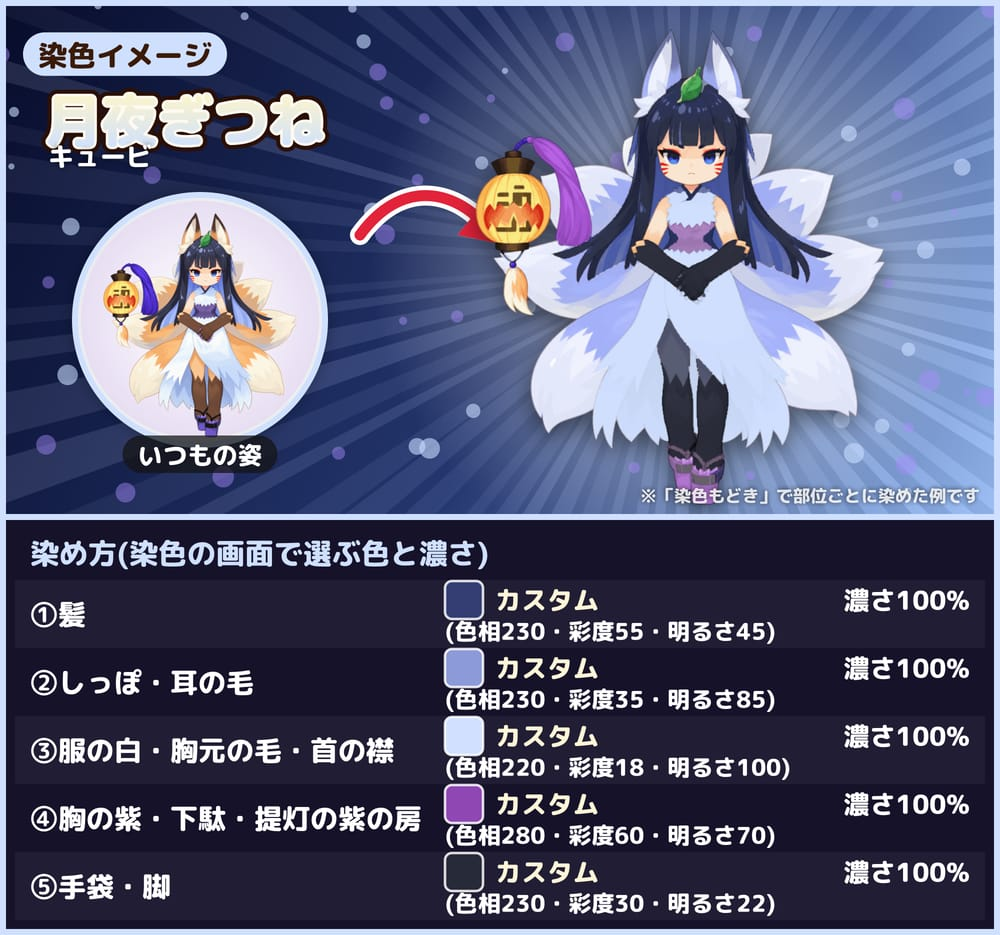
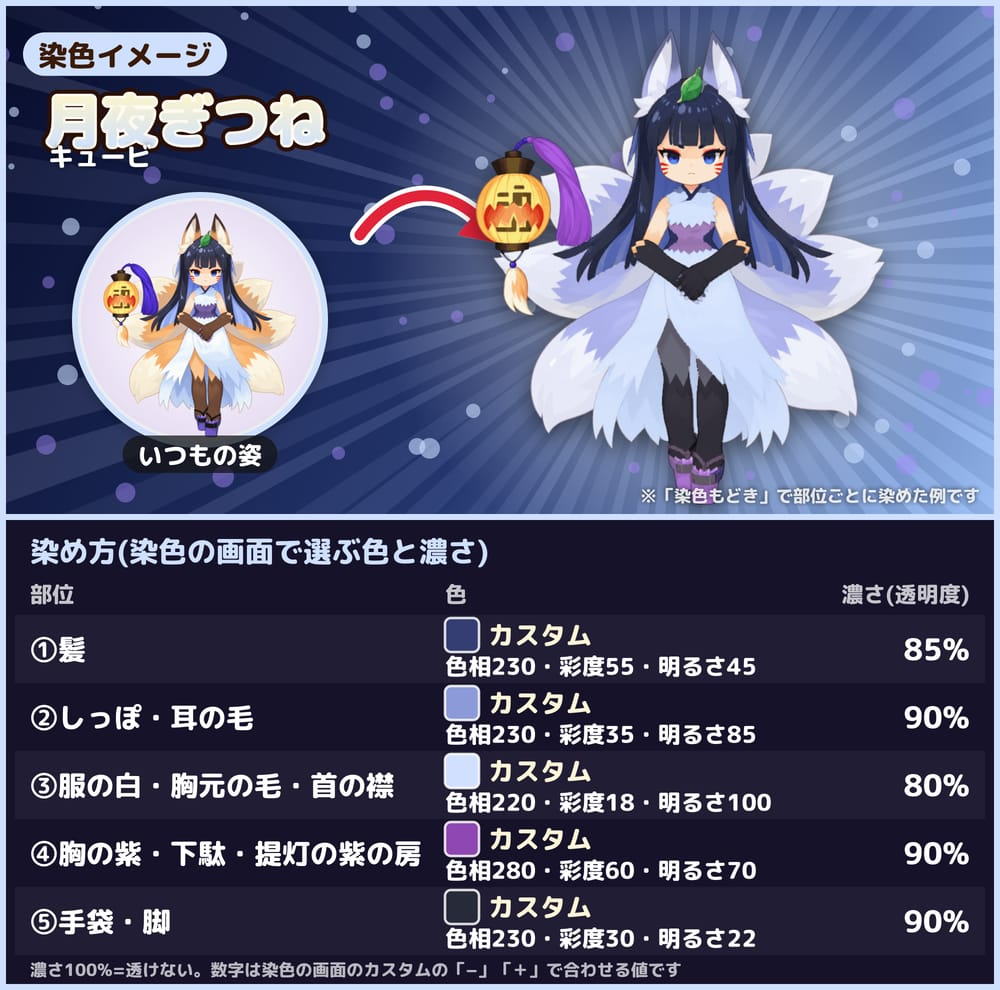
キュービ・オリヒメの染色イメージ: 表を2体同じ3列(部位・色・濃さ(透明度))にし、濃さを部位ごとに仕上げて描き直す
Claude-Session: https://claude.ai/code/session_01UuhN9L3PoQXeR6w3rggzQq

diff --git a/tools/image/make-kyubi-orihime-dye-preview.js b/tools/image/make-kyubi-orihime-dye-preview.js
@@ -31,7 +31,7 @@ const DYE_CANDIDATES = {
   Kyubi: {
     A: { style: '白ぎつね', colors: [c(250,18,100), c(250,15,100), c(210,6,100), c(355,85,85), c(0,0,100)], bg: ['#1b1638', '#5a5aa8', '#e4e2ff'], accent: '#f1edff', dots: ['rgba(240,235,255,.6)', 'rgba(255,170,170,.45)'] },
     B: { style: '紅葉ぎつね', colors: [c(15,60,40), c(25,85,95), c(40,15,100), c(45,85,95), c(15,60,35)], bg: ['#2a0e05', '#a0401a', '#ffc27a'], accent: '#ffd9a0', dots: ['rgba(255,200,120,.6)', 'rgba(255,140,90,.5)'] },
-    C: { style: '月夜ぎつね', colors: [c(230,55,45), c(230,35,85), c(220,18,100), c(280,60,70), c(230,30,22)], bg: ['#070c2a', '#24366e', '#8fb2e8'], accent: '#cfe0ff', dots: ['rgba(200,220,255,.6)', 'rgba(170,140,255,.45)'] },
+    C: { style: '月夜ぎつね', colors: [c(230,55,45,85), c(230,35,85,90), c(220,18,100,80), c(280,60,70,90), c(230,30,22,90)], bg: ['#070c2a', '#24366e', '#8fb2e8'], accent: '#cfe0ff', dots: ['rgba(200,220,255,.6)', 'rgba(170,140,255,.45)'] },
     D: { style: '桜ぎつね', colors: [c(340,35,95), c(340,30,100), c(350,8,100), c(330,70,90), c(340,18,100)], bg: ['#2a0b1f', '#a04a78', '#ffd0e4'], accent: '#ffd8ea', dots: ['rgba(255,200,225,.6)', 'rgba(255,255,255,.45)'] },
     // C を色の札と濃さだけで作り直した物(遊ぶ人が染色の画面でそのまま選べる形。2026-10-27)
     C2: { style: '月夜ぎつね', colors: ['blue@55', 'blue_light@80', 'blue_light@45', 'purple', 'black'], bg: ['#070c2a', '#24366e', '#8fb2e8'], accent: '#cfe0ff', dots: ['rgba(200,220,255,.6)', 'rgba(170,140,255,.45)'] },
@@ -46,7 +46,7 @@ const DYE_CANDIDATES = {
     // 2026-10-27 社長「A〜E のどれでもない」→ A〜E と似た色(水色・茶・緑・白紺・えんじ)を外して作り直した5案。
     // 遊ぶ人が染色の画面でそのまま選べるよう、カスタムではなく色の札と濃さだけで染める
     F: { style: '星空', colors: ['yellow_light', 'purple_light', 'yellow', 'purple', 'purple'], bg: ['#0c0620', '#3a1f6e', '#f3d27a'], accent: '#ffe9a8', dots: ['rgba(255,230,150,.7)', 'rgba(200,170,255,.5)'] },
-    G: { style: '桜', colors: ['pink', 'pink_light', 'red_light', 'white', 'pink_light'], bg: ['#3a1024', '#c25a86', '#ffe4ee'], accent: '#ffe0ec', dots: ['rgba(255,210,230,.7)', 'rgba(255,255,255,.5)'] },
+    G: { style: '桜', colors: ['pink@85', 'pink_light@90', 'red_light@85', 'white', 'pink_light@90'], bg: ['#3a1024', '#c25a86', '#ffe4ee'], accent: '#ffe0ec', dots: ['rgba(255,210,230,.7)', 'rgba(255,255,255,.5)'] },
     H: { style: '黒と朱', colors: ['black', 'gray', 'black', 'red', 'black'], bg: ['#080808', '#3a0c08', '#e0452a'], accent: '#ffb39a', dots: ['rgba(255,120,80,.55)', 'rgba(255,255,255,.3)'] },
     I: { style: '月光', colors: ['gray', 'blue_light', 'white', 'blue', 'blue'], bg: ['#05081e', '#1e2a6a', '#d8e0f0'], accent: '#e4ecff', dots: ['rgba(230,240,255,.65)', 'rgba(160,180,255,.45)'] },
     J: { style: '朝顔', colors: ['purple', 'pink_light', 'pink', 'blue', 'magenta'], bg: ['#120a3a', '#5a3aa8', '#ffc4e6'], accent: '#ffd6f0', dots: ['rgba(255,190,230,.6)', 'rgba(180,160,255,.5)'] },
@@ -63,39 +63,52 @@ const REGION_NAMES = {
 // 染色イメージの下に「どの色の札・どの濃さで染めたか」の表を描く(2026-10-27 社長「どの色と透明度とかわかるようにして」)。
 // 値は手で書かず、染めるのに使った colors から出す。色の札の名前と見本の色はゲームの MASU_COLOR_LABELS・MASU_COLOR_SWATCH を
 // そのまま読むので、染色の画面の呼び方と同じになる。スマホの更新履歴(幅340pxほど)でも読めるよう、字は大きめにする
-const TABLE_HEAD = 120;
-// カスタムの色がある表は2段組み(上に「カスタム」と濃さ、下に数字)にするので、行を高くする
-const tableRowOf = (colors) => (colors || []).some((cid) => typeof cid === 'string' && cid.startsWith('custom:')) ? 136 : 112;
+const TABLE_HEAD = 190, TABLE_ROW = 136, TABLE_FOOT = 70;
 const hsvHex = (h, s, v) => { const f = (n) => { const k = (n + h / 60) % 6; return Math.round(255 * v * (1 - s * Math.max(0, Math.min(k, 4 - k, 1)))); }; return '#' + [f(5), f(3), f(1)].map((n) => n.toString(16).padStart(2, '0')).join(''); };
+// 色1つぶんの表の中身。2体とも同じ形にする(2026-10-27 社長「透明度どっち？ %が2つあるし。オリヒメにはないし」)。
+//   色の列: 色の名前(カスタムなら「カスタム」)と、染色の画面のカスタムの色選びで「−」「＋」で合わせる数字(色相・彩度・明るさ。%は付けない)
+//   濃さの列: 濃さ(透明度)だけ%を付ける。100%=透けない
+// 名前の付いた色の数字は、カスタムで入れるとほぼ同じ色になる値にする。ゲームはカスタムの明るさ v を
+// 下へ0.32・上へ0.24の幅にして染める(_resolveColorTarget)ので、色の札の幅の下の端(vMin)から v = vMin + 0.32 と逆に求める
 const describeColor = (dye, colorId) => {
-  if (!colorId) return { swatch: null, name: '元の色のまま', alpha: null };
+  if (!colorId) return { swatch: null, name: '元の色のまま', nums: '', alpha: null };
   const { base, alpha } = dye.splitColorAlpha(colorId);
   const m = /^custom:(\d+):(\d+):(\d+)$/.exec(base);
-  if (m) return { swatch: hsvHex(+m[1], +m[2] / 100, +m[3] / 100), name: 'カスタム', note: `(色相${m[1]}・彩度${m[2]}・明るさ${m[3]})`, alpha };
-  return { swatch: dye.MASU_COLOR_SWATCH[base] || '#888888', name: dye.MASU_COLOR_LABELS[base] || base, alpha };
+  if (m) return { swatch: hsvHex(+m[1], +m[2] / 100, +m[3] / 100), name: 'カスタム', nums: `色相${m[1]}・彩度${m[2]}・明るさ${m[3]}`, alpha };
+  const t = dye.MASU_COLOR_TARGET[base];
+  const nums = t ? `色相${Math.round(t.h)}・彩度${Math.round(t.s * 100)}・明るさ${Math.min(100, Math.round((t.vMin + 0.32) * 100))}` : '';
+  return { swatch: dye.MASU_COLOR_SWATCH[base] || '#888888', name: dye.MASU_COLOR_LABELS[base] || base, nums, alpha };
 };
+const tableHeightOf = (p) => TABLE_HEAD + TABLE_ROW * (REGION_NAMES[p.baseId] || []).length + TABLE_FOOT;
 const drawDyeTable = (x, top, W, dye, p) => {
   const names = REGION_NAMES[p.baseId] || [];
-  const ROW = tableRowOf(p.colors);
-  const h = TABLE_HEAD + ROW * names.length + 30;
+  const h = tableHeightOf(p);
+  const anyNamed = (p.colors || []).some((cid) => cid && !String(cid).startsWith('custom:'));
   x.fillStyle = '#16122a'; x.fillRect(0, top, W, h);
   x.lineWidth = 12; x.strokeStyle = p.accent; x.strokeRect(6, top - 6, W - 12, h);
-  x.save(); x.font = '58px MPR'; x.fillStyle = p.accent; x.textBaseline = 'middle';
-  x.fillText('染め方(染色の画面で選ぶ色と濃さ)', 60, top + TABLE_HEAD / 2 + 6); x.restore();
+  x.save(); x.textBaseline = 'middle';
+  x.font = '58px MPR'; x.fillStyle = p.accent; x.fillText('染め方(染色の画面で選ぶ色と濃さ)', 60, top + 62);
+  // 列の見出し
+  x.font = '44px MPR'; x.fillStyle = 'rgba(255,255,255,.75)';
+  x.fillText('部位', 60, top + 148); x.fillText('色', 890, top + 148);
+  x.textAlign = 'right'; x.fillText('濃さ(透明度)', W - 60, top + 148); x.textAlign = 'left';
+  x.restore();
   names.forEach((label, i) => {
-    const y = top + TABLE_HEAD + i * ROW + ROW / 2;
+    const y = top + TABLE_HEAD + i * TABLE_ROW + TABLE_ROW / 2;
     const d = describeColor(dye, p.colors[i]);
-    if (i % 2 === 0) { x.fillStyle = 'rgba(255,255,255,.05)'; x.fillRect(30, y - ROW / 2, W - 60, ROW); }
+    if (i % 2 === 0) { x.fillStyle = 'rgba(255,255,255,.05)'; x.fillRect(30, y - TABLE_ROW / 2, W - 60, TABLE_ROW); }
     x.save(); x.textBaseline = 'middle';
     x.font = '56px MPR'; x.fillStyle = '#ffffff'; x.fillText(label, 60, y);
-    // 画面(染色の窓)と同じ書き方にする: 色の札は名前、カスタムは「カスタム(色相○・彩度○・明るさ○)」、濃さは「濃さ○%」
-    const top1 = d.note ? y - 28 : y;
-    if (d.swatch) { x.fillStyle = d.swatch; x.strokeStyle = 'rgba(255,255,255,.85)'; x.lineWidth = 5; x.beginPath(); x.roundRect(890, top1 - 38, 76, 76, 14); x.fill(); x.stroke(); }
-    x.font = d.note ? '52px MPR' : '60px MPR'; x.fillStyle = '#fff6d8'; x.fillText(d.name, 990, top1);
-    if (d.note) { x.font = '46px MPR'; x.fillStyle = '#ffffff'; x.fillText(d.note, 890, y + 34); }
-    if (d.alpha !== null) { x.font = d.note ? '52px MPR' : '60px MPR'; x.fillStyle = '#ffffff'; x.textAlign = 'right'; x.fillText(`濃さ${d.alpha}%`, W - 60, top1); }
+    const y1 = y - 28;
+    if (d.swatch) { x.fillStyle = d.swatch; x.strokeStyle = 'rgba(255,255,255,.85)'; x.lineWidth = 5; x.beginPath(); x.roundRect(890, y1 - 34, 68, 68, 12); x.fill(); x.stroke(); }
+    x.font = '52px MPR'; x.fillStyle = '#fff6d8'; x.fillText(d.name, 976, y1);
+    if (d.nums) { x.font = '46px MPR'; x.fillStyle = '#ffffff'; x.fillText(d.nums, 890, y + 34); }
+    if (d.alpha !== null) { x.font = '60px MPR'; x.fillStyle = '#ffffff'; x.textAlign = 'right'; x.fillText(`${d.alpha}%`, W - 60, y); }
     x.restore();
   });
+  x.save(); x.textBaseline = 'middle'; x.font = '34px MPR'; x.fillStyle = 'rgba(255,255,255,.7)';
+  x.fillText(anyNamed ? '濃さ100%=透けない。名前の付いた色の数字は、カスタムで入れるとほぼ同じ色になる値です' : '濃さ100%=透けない。数字は染色の画面のカスタムの「−」「＋」で合わせる値です', 60, top + h - TABLE_FOOT / 2 - 6);
+  x.restore();
   return h;
 };
 const PREVIEWS = [
@@ -195,7 +208,7 @@ const dyed = async (dye, url, baseId, colors) => {
     x.lineWidth = 12; x.strokeStyle = p.accent; x.strokeRect(6, 6, W - 12, H - 12);
     const outPath = path.join(process.env.CANDIDATES && process.env.OUT_DIR ? path.resolve(process.env.OUT_DIR) : path.join(ROOT, 'monster-hero', 'images', 'events'), p.out);
     // 下に表の帯を足す(高さは部位の数で決まる)
-    const tableH = TABLE_HEAD + tableRowOf(p.colors) * (REGION_NAMES[p.baseId] || []).length + 30;
+    const tableH = tableHeightOf(p);
     const full = createCanvas(W, H + tableH), fx = full.getContext('2d');
     fx.drawImage(c, 0, 0);
     drawDyeTable(fx, H, W, dye, p);

diff --git a/monster-hero/index.html b/monster-hero/index.html
@@ -102,7 +102,7 @@ var GAME_BUILD = '77bace97e832';
 window.__mhGameBuild = GAME_BUILD;
 // 画面に出す版の日時(BUILD_DATE)。本体の中に書くと、ビルドのたびに本体の中身(と GAME_BUILD)が変わり、
 // 事前ダウンロードにためた本体が使えなくなるので、ここから渡す。tools/stamp-version.js が version.json と同じ値を打つ
-window.__mhBuildDate = '2026-10-27 08:58';
+window.__mhBuildDate = '2026-10-27 09:06';
 // 起動でいちばん大きいのは本体JS(約2.7MB)。いちばん後ろで読むため、そこへ来ると
 // ゲージが止まって見えていた。先に取りはじめて、受け取ったバイト数をそのまま出す。
 // ここで取ったものはブラウザのキャッシュに載るので、下の <script> は取り直さない
@@ -2258,7 +2258,7 @@ window.__mhBoot.prefetch('game-system.compiled.js', 'game-system.compiled.js?v='
 <script src="data/rhythm-geometry-calibration.js?v=02534cca12f6" onload="__mhBoot.done('data/rhythm-geometry-calibration.js','音ゲー座標校正を読み込み中')" onerror="__mhBoot.fail('data/rhythm-geometry-calibration.js')"></script>
 <script src="data/rhythm-result-replay-remount.js?v=381554180360" onload="__mhBoot.done('data/rhythm-result-replay-remount.js','音ゲー再プレイ処理を読み込み中')" onerror="__mhBoot.fail('data/rhythm-result-replay-remount.js')"></script>
 <script src="data/rhythm-event.js?v=ddcb715aad87" onload="__mhBoot.done('data/rhythm-event.js','週間ランキングを読み込み中')" onerror="__mhBoot.fail('data/rhythm-event.js')"></script>
-<script src="data/changelog.js?v=d0313e13f1c9" onload="__mhBoot.done('data/changelog.js','更新情報を読み込み中')" onerror="__mhBoot.fail('data/changelog.js')"></script>
+<script src="data/changelog.js?v=a69ab20c95d2" onload="__mhBoot.done('data/changelog.js','更新情報を読み込み中')" onerror="__mhBoot.fail('data/changelog.js')"></script>
 <script src="data/help.js?v=2f3d5fc8cb9d" onload="__mhBoot.done('data/help.js','ヘルプを読み込み中')" onerror="__mhBoot.fail('data/help.js')"></script>
 <script data-mhsave-backup src="data/mhsave-backup.js?v=7845a4fd261f" onload="__mhBoot.done('data/mhsave-backup.js','バックアップ機能を読み込み中')" onerror="__mhBoot.fail('data/mhsave-backup.js')"></script>
 <script src="data/rhythm-step3-release.js?v=ae1d7f73f23a" onload="__mhBoot.done('data/rhythm-step3-release.js','音ゲー更新情報を読み込み中')" onerror="__mhBoot.fail('data/rhythm-step3-release.js')"></script>

diff --git a/monster-hero/data/changelog.js b/monster-hero/data/changelog.js
@@ -125,8 +125,8 @@ const CHANGELOG = [
       '染め方：HOMEの「M/B管理」→「マスモン一覧(バトル)」で染めたい子を選び、「育成・カスタム」の「🎨 染色」を押します(マーケットの「染色もどき」を1つ使います)。①〜⑤の部位ごとに色と濃さを選び、「この色に染める」で決まります。',
     ],
     gallery: [
-      { caption:'キュービ 染色イメージ「月夜ぎつね」(①髪 ②しっぽ・耳の毛 ③服の白・胸元の毛・首の襟 ④胸の紫・下駄・提灯の紫の房 ⑤手袋・脚)', image:'images/events/kyubi-dye-preview.jpg?v=8703a8f86ce2' },
-      { caption:'オリヒメ 染色イメージ「桜」(①髪・耳 ②しっぽ・羽衣 ③上の着物・帯 ④外の羽織 ⑤手袋・靴下)', image:'images/events/orihime-dye-preview.jpg?v=74577cf2f16a' },
+      { caption:'キュービ 染色イメージ「月夜ぎつね」(①髪 ②しっぽ・耳の毛 ③服の白・胸元の毛・首の襟 ④胸の紫・下駄・提灯の紫の房 ⑤手袋・脚)', image:'images/events/kyubi-dye-preview.jpg?v=0db8cc51559e' },
+      { caption:'オリヒメ 染色イメージ「桜」(①髪・耳 ②しっぽ・羽衣 ③上の着物・帯 ④外の羽織 ⑤手袋・靴下)', image:'images/events/orihime-dye-preview.jpg?v=fee8c692d78b' },
     ],
   },
   {

diff --git a/tools/harness.js b/tools/harness.js
@@ -196,6 +196,7 @@ const EXPORTED_NAMES = [
   'MASU_COLOR_REGION_SIZE_OVERRIDES',
   // 染色イメージに「どの色の札・どの濃さで染めたか」の表を描くとき、画面と同じ名前・見本の色を読む(2026-10-27)
   'MASU_COLOR_LABELS',
+  'MASU_COLOR_TARGET',
   'MASU_COLOR_SWATCH',
   'splitColorAlpha',
   'EXACT_DYE_MASKS',
